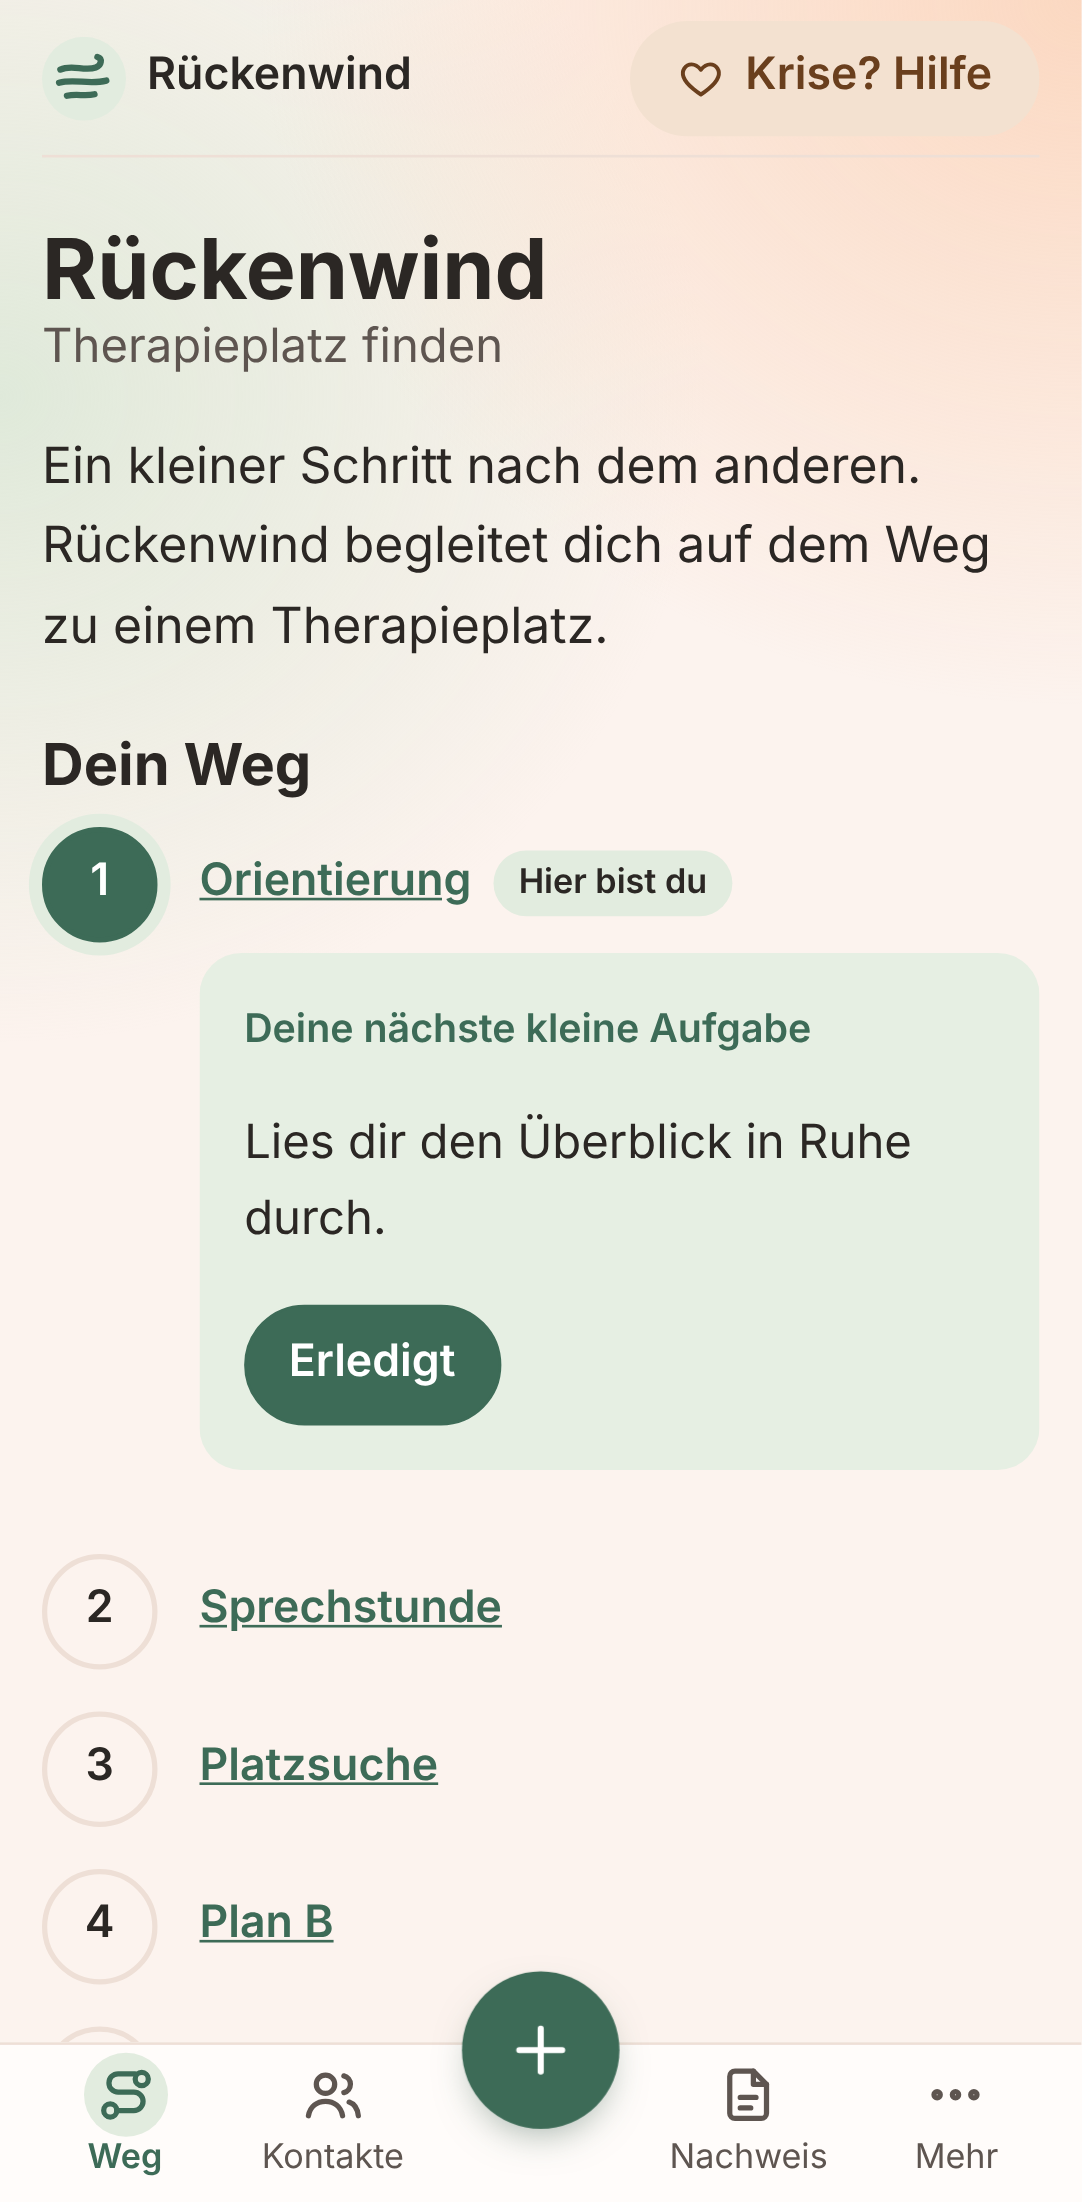
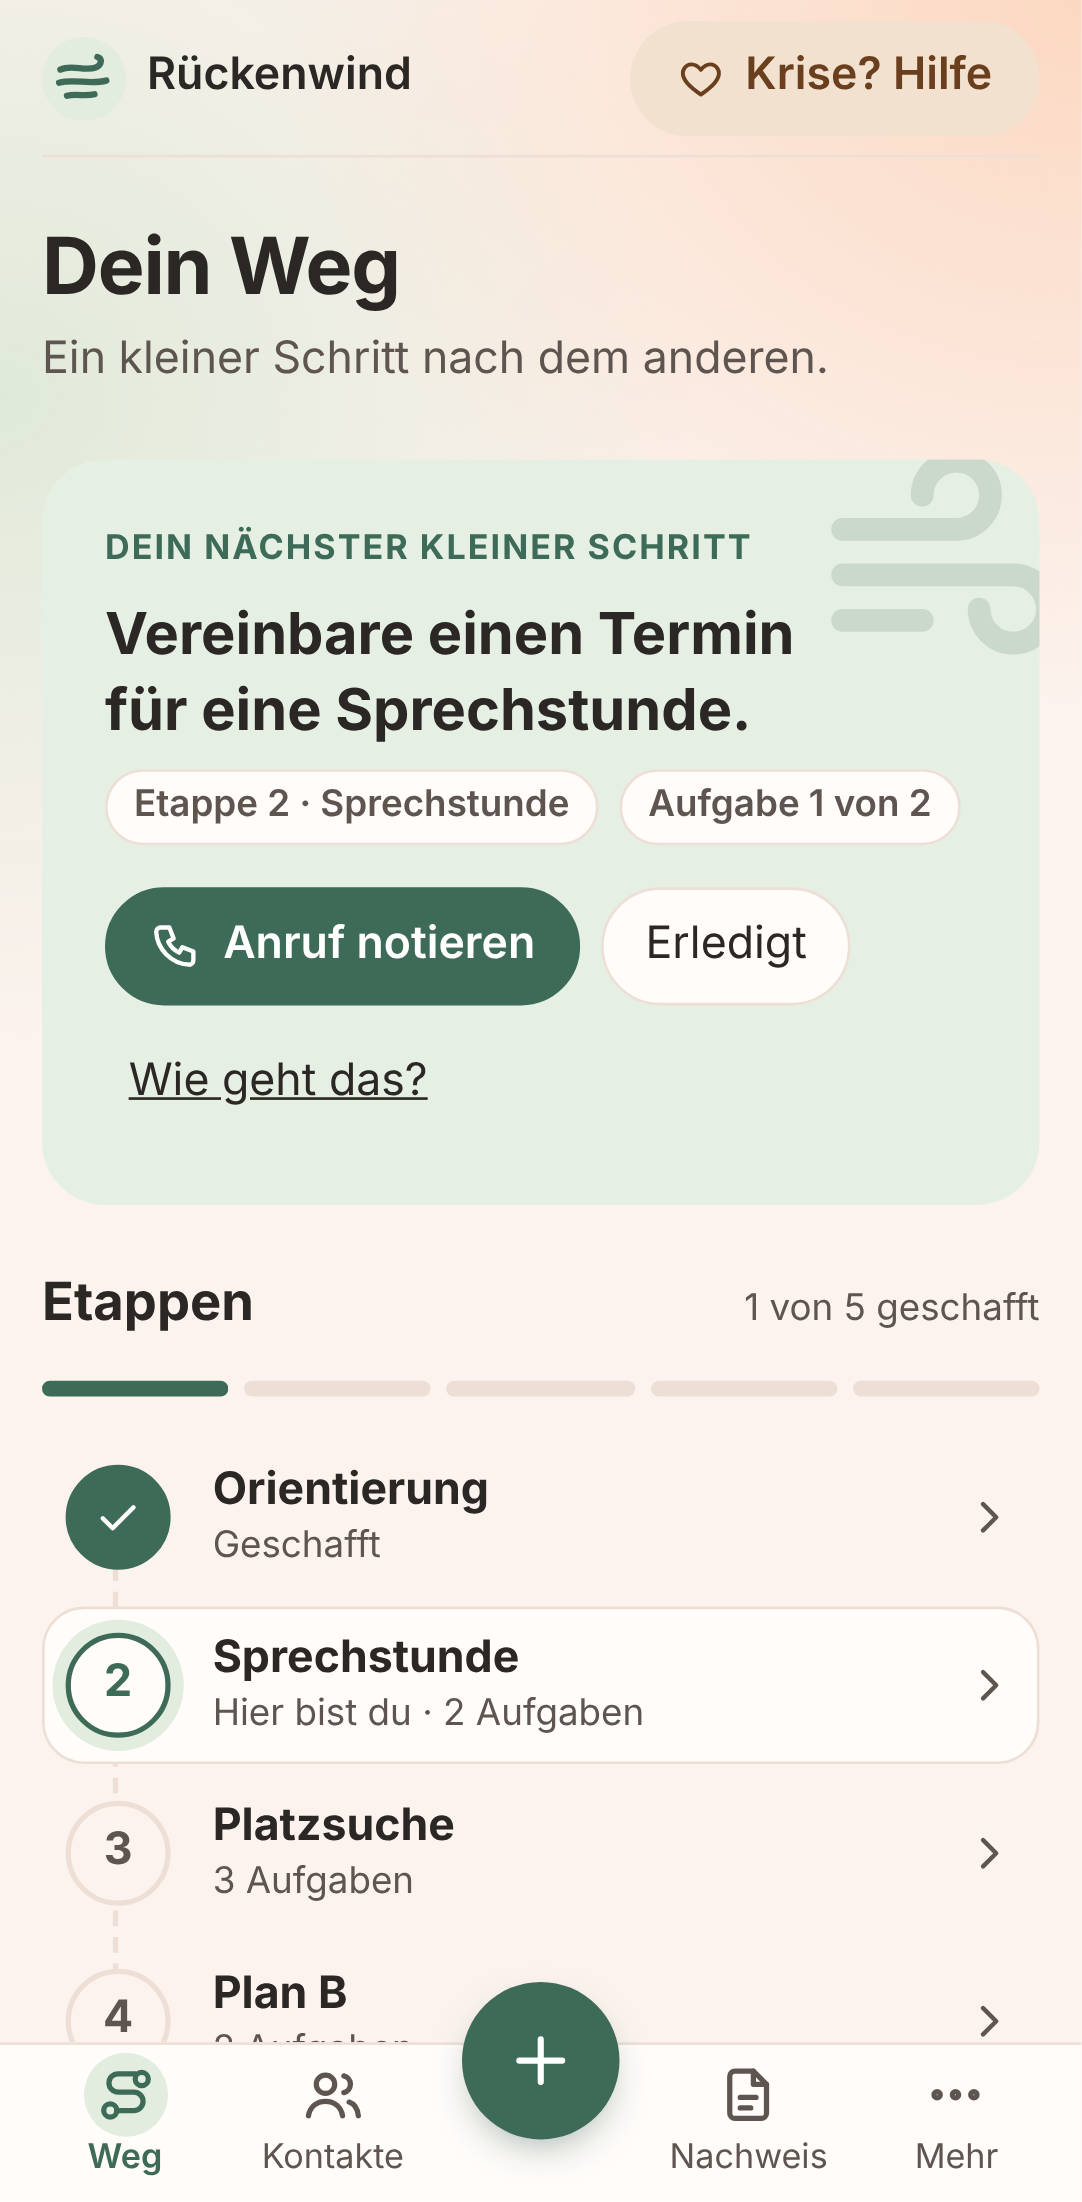
test(e2e): Tests ans neue Design anpassen, Screenshots erneuern
Claude-Session: https://claude.ai/code/session_01CzAL4H9t6tNKFEKdXNBCWE

diff --git a/e2e/capture.e2e.ts b/e2e/capture.e2e.ts
@@ -74,12 +74,18 @@ test('three rejections on one day bring a gentle pause hint', async ({ page }) =
 
 test('the next task can be marked as done', async ({ page }) => {
 	await page.goto('app/');
-	const task = page.locator('.next-task');
-	await expect(task).toContainText('Lies dir den Überblick in Ruhe durch.');
-	await task.getByRole('button', { name: 'Erledigt' }).click();
-	// Stage 1 is done, so stage 2 becomes the current one.
+	const today = page.locator('.today');
+	await expect(today).toContainText('Lies dir den Überblick in Ruhe durch.');
+	await today.getByRole('button', { name: 'Erledigt' }).click();
+	// Stage 1 is done: a small moment of success, moving on is the person's own step.
+	await expect(today).toContainText('Etappe 1 geschafft');
+	await expect(page.locator('[aria-current="step"]')).toContainText('Orientierung');
+	await today.getByRole('button', { name: 'Weiter zu Sprechstunde' }).click();
 	await expect(page.locator('[aria-current="step"]')).toContainText('Sprechstunde');
-	await expect(page.locator('.next-task')).toContainText('Vereinbare einen Termin');
+	await expect(today).toContainText('Vereinbare einen Termin');
+	// Tasks about a contact offer to note it right away.
+	await today.getByRole('button', { name: 'Anruf notieren' }).click();
+	await expect(page.getByRole('dialog')).toBeVisible();
 });
 
 test('stages can be chosen freely', async ({ page }) => {
@@ -107,6 +113,7 @@ test('practices can be added with phone hours, edited and deleted', async ({ pag
 	);
 
 	page.on('dialog', (dialog) => dialog.accept());
+	await card.getByRole('button', { name: 'Aktionen für Praxis Sonne' }).click();
 	await card.getByRole('button', { name: 'Löschen' }).click();
 	await expect(card).toBeHidden();
 });
@@ -117,6 +124,7 @@ test('a saved attempt can be edited later', async ({ page }) => {
 	await page.getByRole('button', { name: 'Speichern' }).click();
 	await expect(page.getByRole('status')).not.toBeEmpty();
 	await page.goto('kontakte/');
+	await page.getByText('Verlauf (1)').click();
 	await page.getByRole('button', { name: /Kontaktversuch bearbeiten/ }).click();
 	await page.getByLabel('Ergebnis').selectOption('rejected');
 	await page.getByLabel('Datum').fill('2026-09-01T08:30');

diff --git a/e2e/data.e2e.ts b/e2e/data.e2e.ts
@@ -27,7 +27,7 @@ test('export, delete all and import restore the same data', async ({ page }) => 
 	await expect(page.getByText('Noch keine Kontakte.')).toBeVisible();
 
 	await page.goto('daten/');
-	await page.getByLabel('Sicherungsdatei wählen').setInputFiles(file);
+	await page.getByLabel('Sicherung einspielen').setInputFiles(file);
 	await expect(status).toHaveText('Sicherung eingespielt.');
 	await page.goto('kontakte/');
 	await expect(page.getByRole('heading', { name: 'Praxis Weber' })).toBeVisible();
@@ -36,7 +36,7 @@ test('export, delete all and import restore the same data', async ({ page }) => 
 
 test('a foreign file is rejected without changes', async ({ page }) => {
 	await page.goto('daten/');
-	await page.getByLabel('Sicherungsdatei wählen').setInputFiles({
+	await page.getByLabel('Sicherung einspielen').setInputFiles({
 		name: 'fremd.json',
 		mimeType: 'application/json',
 		buffer: Buffer.from('{"app":"andere"}')

diff --git a/e2e/pwa.e2e.ts b/e2e/pwa.e2e.ts
@@ -16,7 +16,7 @@ test('the app works offline after the first visit', async ({ page, context }) =>
 		['kontakte/', 'Kontakte'],
 		['krise/', 'Hilfe in der Krise'],
 		['./', 'Rückenwind'],
-		['app/', 'Rückenwind']
+		['app/', 'Dein Weg']
 	]) {
 		await page.goto(path);
 		await expect(page.getByRole('heading', { level: 1 })).toContainText(heading);
@@ -27,7 +27,7 @@ test('the app works offline after the first visit', async ({ page, context }) =>
 	await page.getByRole('button', { name: 'Speichern' }).click();
 	await expect(page.locator('.progress')).toContainText('1 Nachweis gesammelt');
 
-	await page.getByRole('link', { name: 'Nachweis-PDF erstellen' }).click();
+	await page.getByRole('link', { name: 'Nachweis ansehen' }).click();
 	const download = page.waitForEvent('download');
 	await page.getByRole('button', { name: 'PDF erstellen' }).click();
 	expect((await download).suggestedFilename()).toMatch(/\.pdf$/);

diff --git a/e2e/proof.e2e.ts b/e2e/proof.e2e.ts
@@ -18,7 +18,7 @@ test('the proof PDF is created in the browser, without requests to other origins
 	await page.getByRole('button', { name: 'Speichern' }).click();
 	await expect(page.getByRole('status').first()).not.toBeEmpty();
 
-	await page.getByRole('link', { name: 'Nachweis-PDF erstellen' }).click();
+	await page.getByRole('link', { name: 'Nachweis ansehen' }).click();
 	await page.getByLabel('Dein Name für das PDF (freiwillig)').fill('Jürgen Weiß');
 	const downloadPromise = page.waitForEvent('download');
 	await page.getByRole('button', { name: 'PDF erstellen' }).click();

diff --git a/e2e/content.e2e.ts b/e2e/content.e2e.ts
@@ -34,7 +34,7 @@ test('stage details open on demand and stages link to each other', async ({ page
 	await expect(details).not.toHaveAttribute('open');
 	await details.locator('summary').click();
 	await expect(details).toHaveAttribute('open');
-	await page.getByRole('link', { name: 'Weiter: Platzsuche' }).click();
+	await page.getByRole('link', { name: /^Weiter\W+Platzsuche$/ }).click();
 	await expect(page.getByRole('heading', { level: 1 })).toHaveText('Platzsuche');
 });
 

diff --git a/README.md b/README.md
@@ -19,7 +19,7 @@ Wer keinen Kassenplatz findet, ruft viele Praxen an, oft nur in kurzen Telefonsp
 
 | Einführung                                                                  | Dein Weg                                                                          | Kontakt notieren                                                           | Kontakte                                                             | Etappe                                                                       |
 | --------------------------------------------------------------------------- | --------------------------------------------------------------------------------- | -------------------------------------------------------------------------- | -------------------------------------------------------------------- | ---------------------------------------------------------------------------- |
-| ![Startseite mit kurzer Einführung](docs/screenshots/einfuehrung-light.png) | ![Dein Weg mit Zeitleiste und nächster Aufgabe](docs/screenshots/start-light.png) | ![Schnellerfassung mit Chip-Vorschau](docs/screenshots/erfassen-light.png) | ![Kontaktliste mit Fortschritt](docs/screenshots/kontakte-light.png) | ![Etappenseite mit aufklappbaren Details](docs/screenshots/etappe-light.png) |
+| ![Startseite mit kurzer Einführung](docs/screenshots/einfuehrung-light.png) | ![Dein Weg mit nächstem kleinen Schritt und Etappen](docs/screenshots/start-light.png) | ![Schnellerfassung mit Chip-Vorschau](docs/screenshots/erfassen-light.png) | ![Kontakte mit Kurzzahlen und letztem Stand](docs/screenshots/kontakte-light.png) | ![Etappenseite mit Aufgaben und aufklappbaren Fragen](docs/screenshots/etappe-light.png) |
 
 Dunkelmodus: ![Schnellerfassung im Dunkelmodus](docs/screenshots/erfassen-dark.png)
 
@@ -28,9 +28,9 @@ Screenshots neu erzeugen: Server starten (`npm start` mit `PORT=4173`), dann `no
 ## Was die App kann
 
 - **Kurze Einführung:** Die Startseite (`/`) erklärt die Idee und wie du anfängst. Die App selbst liegt unter `/app/`; die installierte App startet direkt dort.
-- **Dein Weg:** fünf Etappen von der Orientierung bis zum Antrag, immer mit genau einer nächsten kleinen Aufgabe.
+- **Dein Weg:** oben immer genau ein nächster kleiner Schritt, darunter die fünf Etappen als Weg mit sichtbarem Fortschritt. Eine fertige Etappe bekommt einen ruhigen Erfolgsmoment.
 - **Kontakt in einer Zeile notieren:** „Praxis Weber, AB, Warteliste 8 Monate“ wird lokal erkannt und als Vorschau gezeigt. Korrigieren per Tipp, speichern mit einem Tipp. Dazu Schnellbuttons.
-- **Kontakte und Fortschritt:** alle Praxen mit Telefonzeiten und Kontaktversuchen. Absagen zählen sichtbar als gesammelte Nachweise.
+- **Kontakte und Fortschritt:** alle Praxen mit letztem Stand, Telefonzeiten und Verlauf. Absagen zählen sichtbar als gesammelte Nachweise.
 - **Nachweis-PDF:** eine Liste aller Anfragen für den Antrag auf Kostenerstattung, erzeugt im Browser.
 - **Sichern, wiederherstellen, löschen:** als JSON-Datei, ohne Konto.
 - **Offline nutzbar und installierbar** (PWA), hell und dunkel, drei Farbthemen zur Wahl (Salbei, Pfirsich, Himmel), barrierearm (WCAG 2.2 AA als Ziel).
